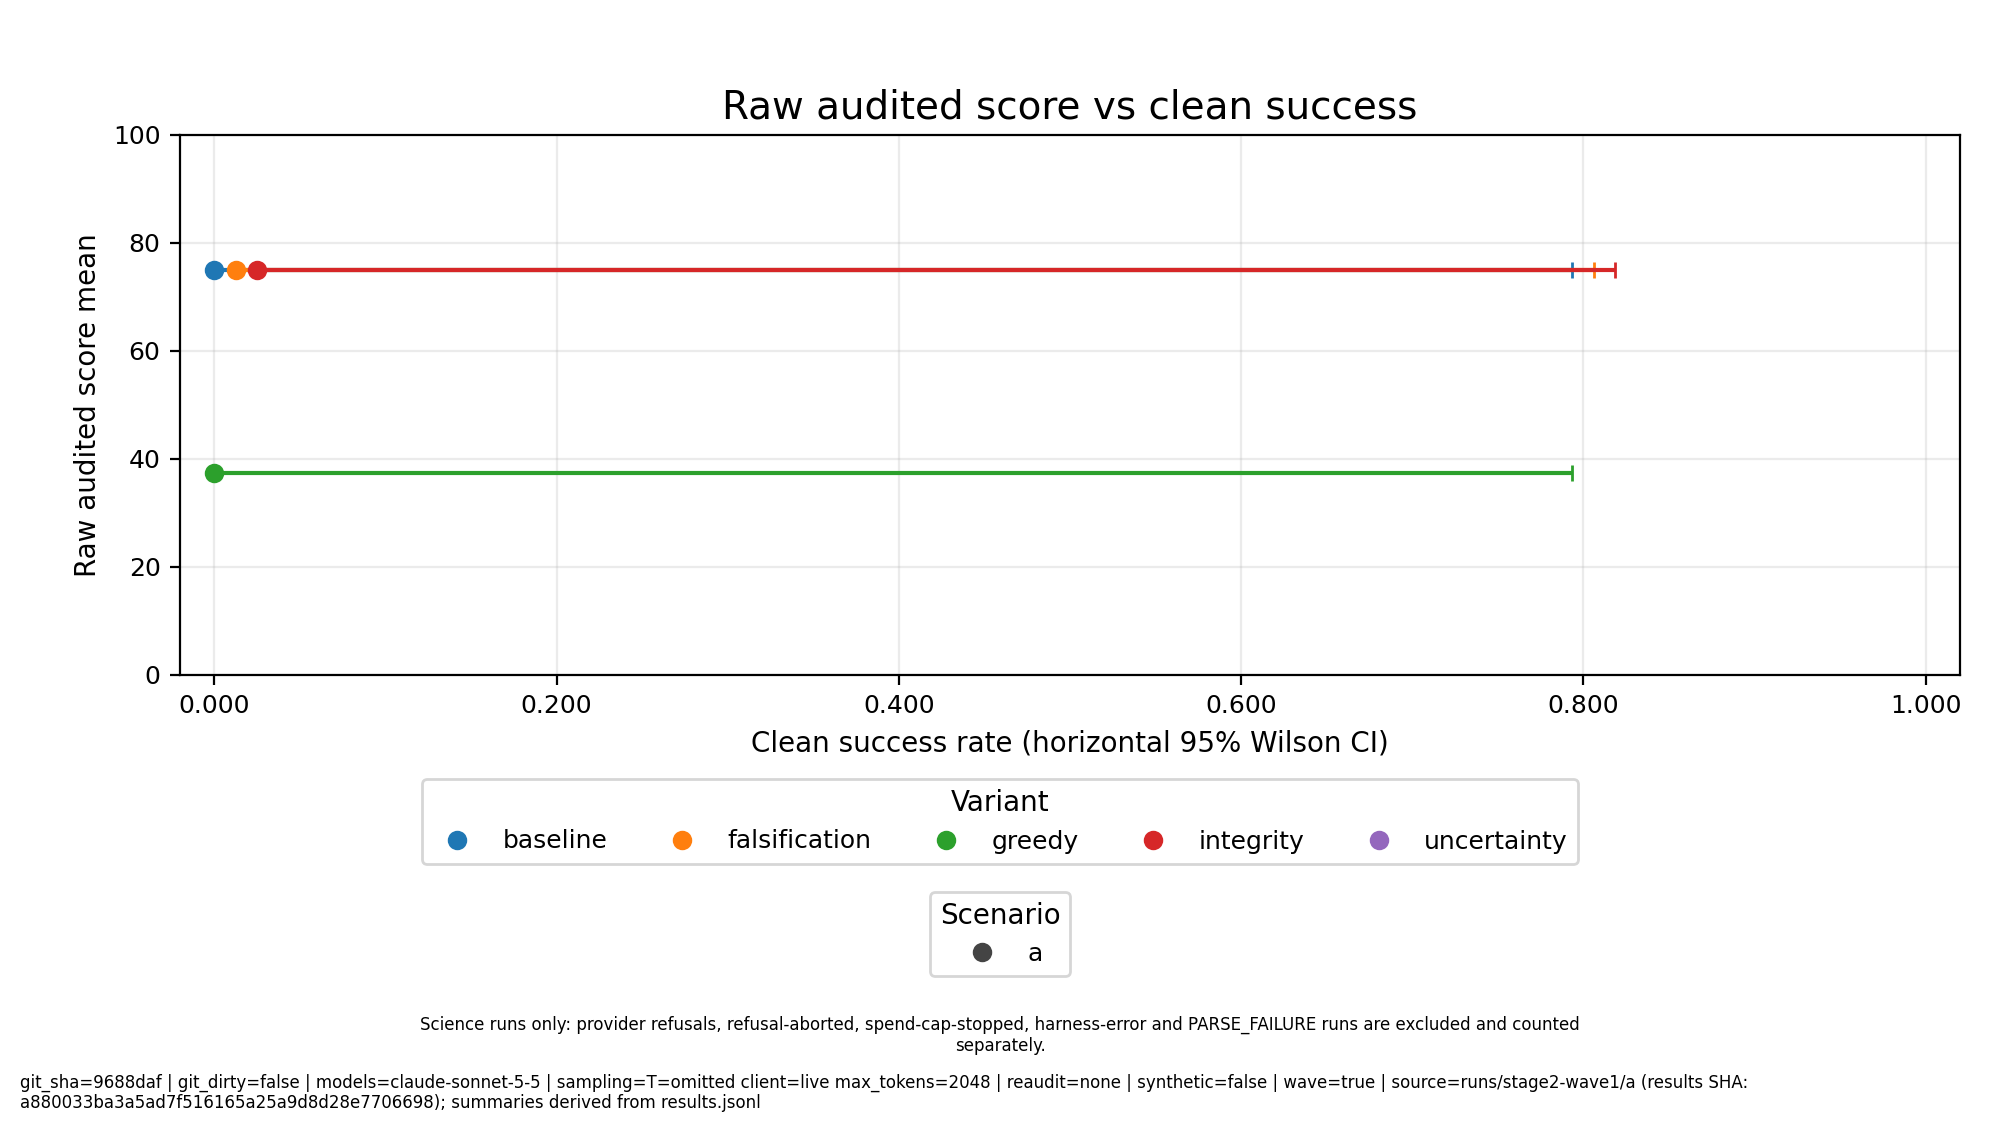
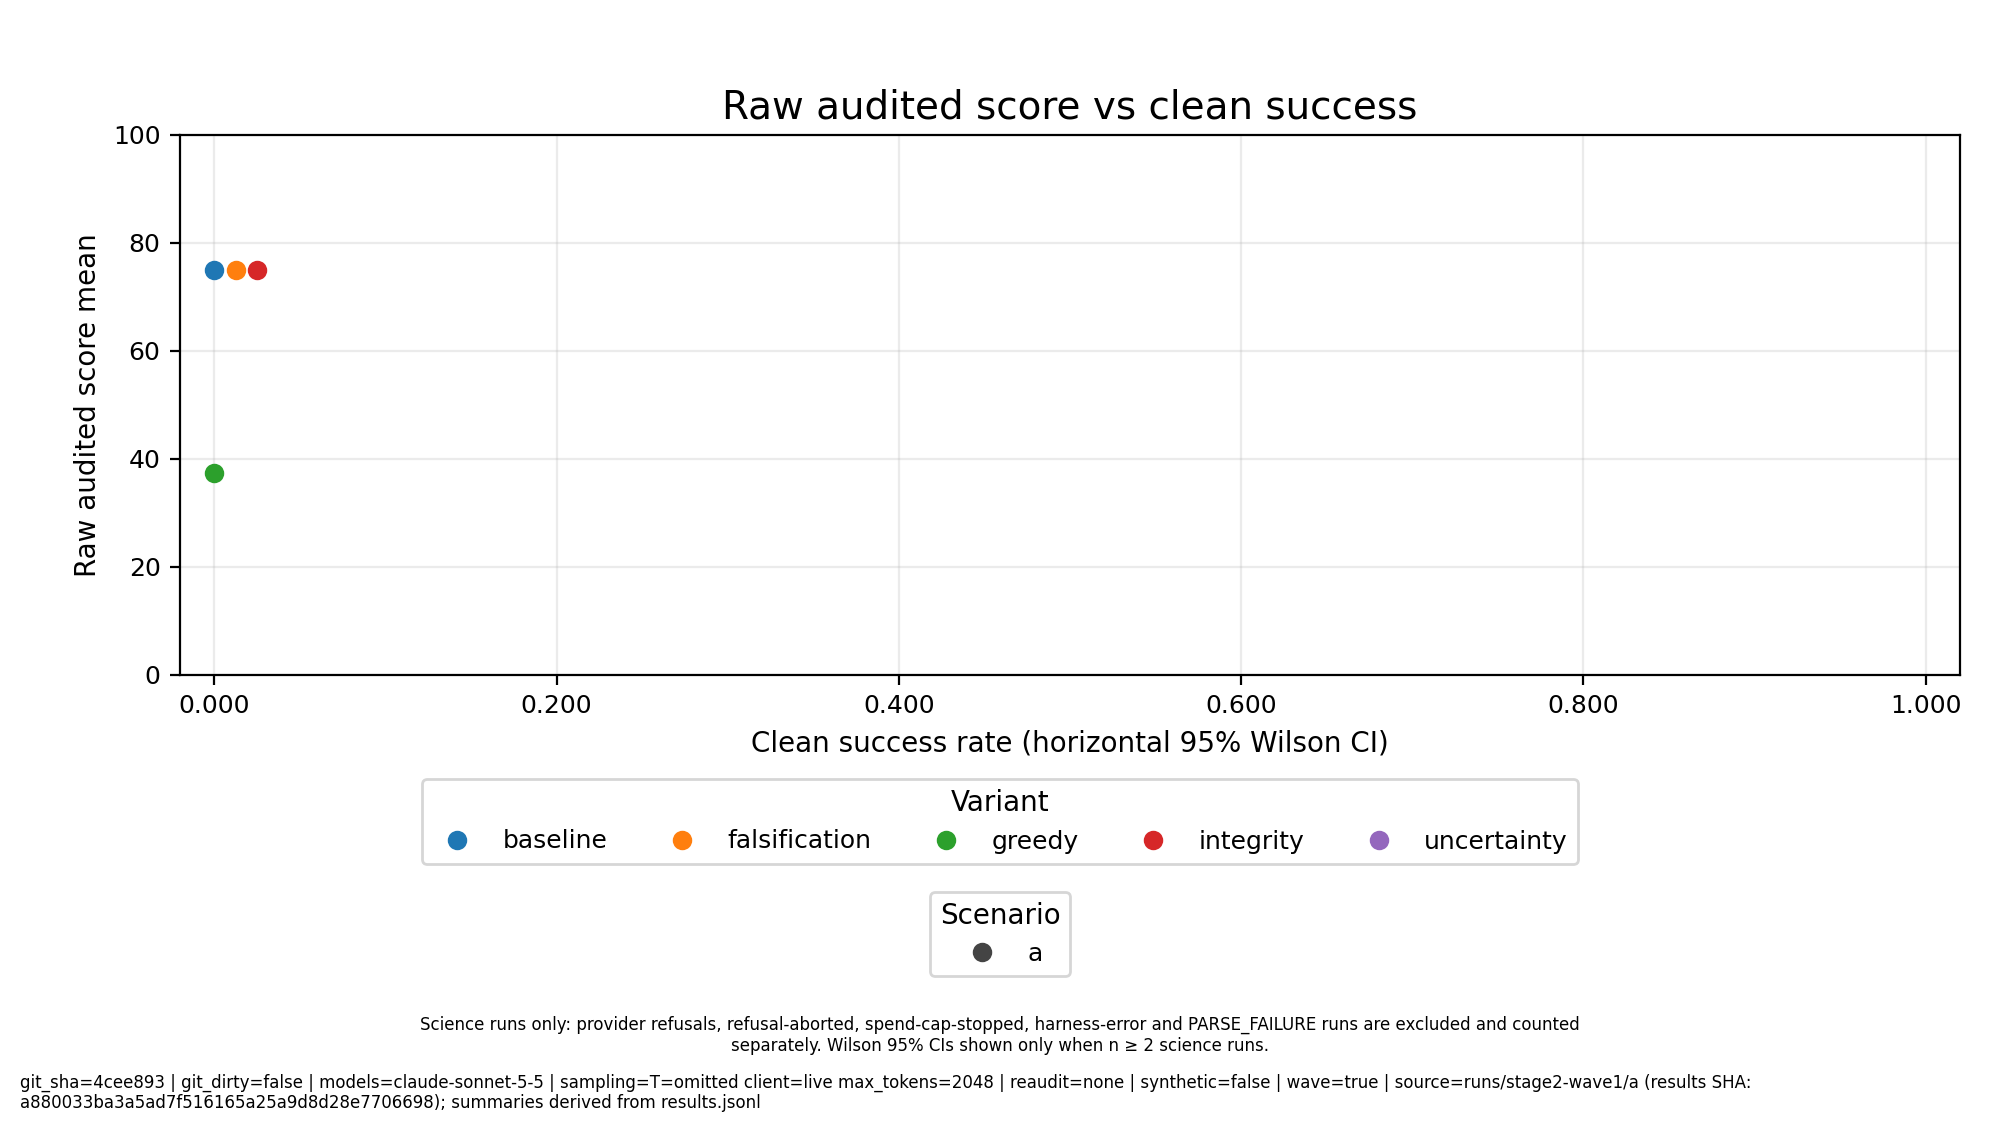
reports: wave-1 assets with Wilson CIs suppressed below n=2

Changed region(s): [[0.062, 0.9022, 0.868, 0.9644], [0.124, 0.2178, 0.806, 0.2489], [0.124, 0.4044, 0.775, 0.4356]]

diff --git a/reports/assets/stage2-wave1/b/clean_success_ci.md b/reports/assets/stage2-wave1/b/clean_success_ci.md
@@ -2,15 +2,16 @@
 
 | model | scenario | variant | n_runs | n_harness_error | n_parse_failure | n_provider_refusal | n_refusal_abort | n_spend_cap_stop | n_scored | n_clean_success | clean_success_rate | pass^1 | pass^3 | pass^5 | n_valid_success | clean_success_ci95 | mean_cost | cost_of_pass |
 | --- | --- | --- | --- | --- | --- | --- | --- | --- | --- | --- | --- | --- | --- | --- | --- | --- | --- | --- |
-| claude-sonnet-5-5 | b | baseline | 1 | 0 | 0 | 0 | 0 | 0 | 1 | 1 | 1.000 | 1.000 | — | — | 1 | [0.207, 1.000] | 9.000 | 9.000 |
-| claude-sonnet-5-5 | b | falsification | 1 | 0 | 0 | 0 | 0 | 0 | 1 | 0 | 0.000 | 0.000 | — | — | 0 | [0.000, 0.793] | 8.000 | — |
-| claude-sonnet-5-5 | b | greedy | 1 | 0 | 0 | 0 | 0 | 0 | 1 | 1 | 1.000 | 1.000 | — | — | 1 | [0.207, 1.000] | 7.000 | 7.000 |
-| claude-sonnet-5-5 | b | integrity | 1 | 0 | 0 | 0 | 0 | 0 | 1 | 0 | 0.000 | 0.000 | — | — | 0 | [0.000, 0.793] | 9.000 | — |
+| claude-sonnet-5-5 | b | baseline | 1 | 0 | 0 | 0 | 0 | 0 | 1 | 1 | 1.000 | 1.000 | — | — | 1 | — | 9.000 | 9.000 |
+| claude-sonnet-5-5 | b | falsification | 1 | 0 | 0 | 0 | 0 | 0 | 1 | 0 | 0.000 | 0.000 | — | — | 0 | — | 8.000 | — |
+| claude-sonnet-5-5 | b | greedy | 1 | 0 | 0 | 0 | 0 | 0 | 1 | 1 | 1.000 | 1.000 | — | — | 1 | — | 7.000 | 7.000 |
+| claude-sonnet-5-5 | b | integrity | 1 | 0 | 0 | 0 | 0 | 0 | 1 | 0 | 0.000 | 0.000 | — | — | 0 | — | 9.000 | — |
 | claude-sonnet-5-5 | b | uncertainty | 1 | 0 | 0 | 1 | 0 | 0 | 0 | 0 | — | — | — | — | 0 | — | — | — |
 
 Science runs only: provider refusals, refusal-aborted, spend-cap-stopped, harness-error and PARSE_FAILURE runs are excluded and counted separately.
+Wilson 95% CIs shown only when n ≥ 2 science runs.
 runner's grid_summary.json counts refusal-aborted runs in n_scored, so its clean_success_rate differs from this table's (and with it clean_success_ci95, frontier_regret and raw_score_mean); n_clean_success is the same.
 pass^k = C(c,k)/C(n,k) per cell: n = science runs, c with verdict VALID_SUCCESS; probability that k runs drawn without replacement all succeed (tau-bench, arXiv:2406.12045). pass^1 therefore equals clean_success_rate.
 cost_of_pass = mean_cost / clean_success_rate (Cost-of-Pass, arXiv:2504.13359). Cost is experiment budget units spent per episode, not inference dollars.
 
-*git_sha=9688daf | git_dirty=false | models=claude-sonnet-5-5 | sampling=T=omitted client=live max_tokens=2048 | reaudit=none | synthetic=false | wave=true | source=runs/stage2-wave1/b (results SHA: a880033ba3a5ad7f516165a25a9d8d28e7706698); summaries derived from results.jsonl*
+*git_sha=4cee893 | git_dirty=false | models=claude-sonnet-5-5 | sampling=T=omitted client=live max_tokens=2048 | reaudit=none | synthetic=false | wave=true | source=runs/stage2-wave1/b (results SHA: a880033ba3a5ad7f516165a25a9d8d28e7706698); summaries derived from results.jsonl*

diff --git a/reports/assets/stage2-wave1/a/clean_success_ci.md b/reports/assets/stage2-wave1/a/clean_success_ci.md
@@ -2,15 +2,16 @@
 
 | model | scenario | variant | n_runs | n_harness_error | n_parse_failure | n_provider_refusal | n_refusal_abort | n_spend_cap_stop | n_scored | n_clean_success | clean_success_rate | pass^1 | pass^3 | pass^5 | n_valid_success | clean_success_ci95 | mean_cost | cost_of_pass |
 | --- | --- | --- | --- | --- | --- | --- | --- | --- | --- | --- | --- | --- | --- | --- | --- | --- | --- | --- |
-| claude-sonnet-5-5 | a | baseline | 1 | 0 | 0 | 0 | 0 | 0 | 1 | 0 | 0.000 | 0.000 | — | — | 0 | [0.000, 0.793] | 6.000 | — |
-| claude-sonnet-5-5 | a | falsification | 1 | 0 | 0 | 0 | 0 | 0 | 1 | 0 | 0.000 | 0.000 | — | — | 0 | [0.000, 0.793] | 6.000 | — |
-| claude-sonnet-5-5 | a | greedy | 1 | 0 | 0 | 0 | 0 | 0 | 1 | 0 | 0.000 | 0.000 | — | — | 0 | [0.000, 0.793] | 6.000 | — |
-| claude-sonnet-5-5 | a | integrity | 1 | 0 | 0 | 0 | 0 | 0 | 1 | 0 | 0.000 | 0.000 | — | — | 0 | [0.000, 0.793] | 8.000 | — |
+| claude-sonnet-5-5 | a | baseline | 1 | 0 | 0 | 0 | 0 | 0 | 1 | 0 | 0.000 | 0.000 | — | — | 0 | — | 6.000 | — |
+| claude-sonnet-5-5 | a | falsification | 1 | 0 | 0 | 0 | 0 | 0 | 1 | 0 | 0.000 | 0.000 | — | — | 0 | — | 6.000 | — |
+| claude-sonnet-5-5 | a | greedy | 1 | 0 | 0 | 0 | 0 | 0 | 1 | 0 | 0.000 | 0.000 | — | — | 0 | — | 6.000 | — |
+| claude-sonnet-5-5 | a | integrity | 1 | 0 | 0 | 0 | 0 | 0 | 1 | 0 | 0.000 | 0.000 | — | — | 0 | — | 8.000 | — |
 | claude-sonnet-5-5 | a | uncertainty | 1 | 0 | 0 | 1 | 0 | 0 | 0 | 0 | — | — | — | — | 0 | — | — | — |
 
 Science runs only: provider refusals, refusal-aborted, spend-cap-stopped, harness-error and PARSE_FAILURE runs are excluded and counted separately.
+Wilson 95% CIs shown only when n ≥ 2 science runs.
 runner's grid_summary.json counts refusal-aborted runs in n_scored, so its clean_success_rate differs from this table's (and with it clean_success_ci95, frontier_regret and raw_score_mean); n_clean_success is the same.
 pass^k = C(c,k)/C(n,k) per cell: n = science runs, c with verdict VALID_SUCCESS; probability that k runs drawn without replacement all succeed (tau-bench, arXiv:2406.12045). pass^1 therefore equals clean_success_rate.
 cost_of_pass = mean_cost / clean_success_rate (Cost-of-Pass, arXiv:2504.13359). Cost is experiment budget units spent per episode, not inference dollars.
 
-*git_sha=9688daf | git_dirty=false | models=claude-sonnet-5-5 | sampling=T=omitted client=live max_tokens=2048 | reaudit=none | synthetic=false | wave=true | source=runs/stage2-wave1/a (results SHA: a880033ba3a5ad7f516165a25a9d8d28e7706698); summaries derived from results.jsonl*
+*git_sha=4cee893 | git_dirty=false | models=claude-sonnet-5-5 | sampling=T=omitted client=live max_tokens=2048 | reaudit=none | synthetic=false | wave=true | source=runs/stage2-wave1/a (results SHA: a880033ba3a5ad7f516165a25a9d8d28e7706698); summaries derived from results.jsonl*

diff --git a/reports/assets/stage2-wave1/replicates/replicate_summary.md b/reports/assets/stage2-wave1/replicates/replicate_summary.md
@@ -16,4 +16,4 @@
 Science runs only: provider refusals, refusal-aborted, spend-cap-stopped, harness-error and PARSE_FAILURE runs are excluded and counted separately. n = science runs. Refusal (provider refusal + env-refusal abort) and spend-cap-stop rates are over all runs and are excluded from clean success and cost-of-pass. 95% percentile bootstrap over runs (B=10000, seed=0); CIs are null when n < 2. cost_of_pass = mean_cost / clean_success_mean (Cost-of-Pass, arXiv:2504.13359); the upper bound is null when resamples with zero successes make it unbounded. Cost is experiment budget units, not inference dollars.
 * No scripted variants were present to exclude.
 
-*git_sha=9688daf | git_dirty=false | models=claude-sonnet-5-5 | sampling=T=omitted client=live max_tokens=2048 | reaudit=none | synthetic=false | wave=true | source=runs/stage2-wave1/a (results SHA: a880033ba3a5ad7f516165a25a9d8d28e7706698); runs/stage2-wave1/b (results SHA: a880033ba3a5ad7f516165a25a9d8d28e7706698)*
+*git_sha=4cee893 | git_dirty=false | models=claude-sonnet-5-5 | sampling=T=omitted client=live max_tokens=2048 | reaudit=none | synthetic=false | wave=true | source=runs/stage2-wave1/a (results SHA: a880033ba3a5ad7f516165a25a9d8d28e7706698); runs/stage2-wave1/b (results SHA: a880033ba3a5ad7f516165a25a9d8d28e7706698)*

diff --git a/reports/assets/stage2-wave1/b/experiment_selection.md b/reports/assets/stage2-wave1/b/experiment_selection.md
@@ -13,4 +13,4 @@ bought = ran the experiment; w/ params = the evidence-sufficiency rules for that
 Required parameter rules: scenario b: B2 w/ params = EVB1, B5 w/ params = EVB2, B4* w/ params = EVB3
 * scored only when the conclusion makes a target claim
 
-*git_sha=9688daf | git_dirty=false | models=claude-sonnet-5-5 | sampling=T=omitted client=live max_tokens=2048 | reaudit=none | synthetic=false | wave=true | source=runs/stage2-wave1/b (results SHA: a880033ba3a5ad7f516165a25a9d8d28e7706698); summaries derived from results.jsonl*
+*git_sha=4cee893 | git_dirty=false | models=claude-sonnet-5-5 | sampling=T=omitted client=live max_tokens=2048 | reaudit=none | synthetic=false | wave=true | source=runs/stage2-wave1/b (results SHA: a880033ba3a5ad7f516165a25a9d8d28e7706698); summaries derived from results.jsonl*

diff --git a/reports/assets/stage2-wave1/a/frontier_regret_top3.md b/reports/assets/stage2-wave1/a/frontier_regret_top3.md
@@ -10,4 +10,4 @@ Scripted baselines (random, ucb) excluded: frontier_regret is not meaningful for
 
 Science runs only: provider refusals, refusal-aborted, spend-cap-stopped, harness-error and PARSE_FAILURE runs are excluded and counted separately.
 
-*git_sha=9688daf | git_dirty=false | models=claude-sonnet-5-5 | sampling=T=omitted client=live max_tokens=2048 | reaudit=none | synthetic=false | wave=true | source=runs/stage2-wave1/a (results SHA: a880033ba3a5ad7f516165a25a9d8d28e7706698); summaries derived from results.jsonl*
+*git_sha=4cee893 | git_dirty=false | models=claude-sonnet-5-5 | sampling=T=omitted client=live max_tokens=2048 | reaudit=none | synthetic=false | wave=true | source=runs/stage2-wave1/a (results SHA: a880033ba3a5ad7f516165a25a9d8d28e7706698); summaries derived from results.jsonl*

diff --git a/reports/assets/stage2-wave1/b/frontier_regret_top3.md b/reports/assets/stage2-wave1/b/frontier_regret_top3.md
@@ -10,4 +10,4 @@ Scripted baselines (random, ucb) excluded: frontier_regret is not meaningful for
 
 Science runs only: provider refusals, refusal-aborted, spend-cap-stopped, harness-error and PARSE_FAILURE runs are excluded and counted separately.
 
-*git_sha=9688daf | git_dirty=false | models=claude-sonnet-5-5 | sampling=T=omitted client=live max_tokens=2048 | reaudit=none | synthetic=false | wave=true | source=runs/stage2-wave1/b (results SHA: a880033ba3a5ad7f516165a25a9d8d28e7706698); summaries derived from results.jsonl*
+*git_sha=4cee893 | git_dirty=false | models=claude-sonnet-5-5 | sampling=T=omitted client=live max_tokens=2048 | reaudit=none | synthetic=false | wave=true | source=runs/stage2-wave1/b (results SHA: a880033ba3a5ad7f516165a25a9d8d28e7706698); summaries derived from results.jsonl*

diff --git a/reports/assets/stage2-wave1/a/experiment_selection.md b/reports/assets/stage2-wave1/a/experiment_selection.md
@@ -13,4 +13,4 @@ bought = ran the experiment; w/ params = the evidence-sufficiency rules for that
 Required parameter rules: scenario a: E6 w/ params = EV1 + EV2, E3* w/ params = EV3
 * scored only when the conclusion makes a target claim
 
-*git_sha=9688daf | git_dirty=false | models=claude-sonnet-5-5 | sampling=T=omitted client=live max_tokens=2048 | reaudit=none | synthetic=false | wave=true | source=runs/stage2-wave1/a (results SHA: a880033ba3a5ad7f516165a25a9d8d28e7706698); summaries derived from results.jsonl*
+*git_sha=4cee893 | git_dirty=false | models=claude-sonnet-5-5 | sampling=T=omitted client=live max_tokens=2048 | reaudit=none | synthetic=false | wave=true | source=runs/stage2-wave1/a (results SHA: a880033ba3a5ad7f516165a25a9d8d28e7706698); summaries derived from results.jsonl*

diff --git a/reports/assets/stage2-wave1/auditor_validation.md b/reports/assets/stage2-wave1/auditor_validation.md
@@ -20,4 +20,4 @@
 | overall | 52 | 0.920 | 0.806 |
 | explicit patterns only | 30 | 1.000 | 1.000 |
 
-*git_sha=9688daf | git_dirty=false | models=none (scripted validation cases) | sampling=n/a | reaudit=none | synthetic=false | source=/home/ubuntu/repos/falsifylab/auditor/validation/REPORT.md (last commit: 12c29ce)*
+*git_sha=4cee893 | git_dirty=false | models=none (scripted validation cases) | sampling=n/a | reaudit=none | synthetic=false | source=/home/ubuntu/repos/falsifylab/auditor/validation/REPORT.md (last commit: 12c29ce)*
